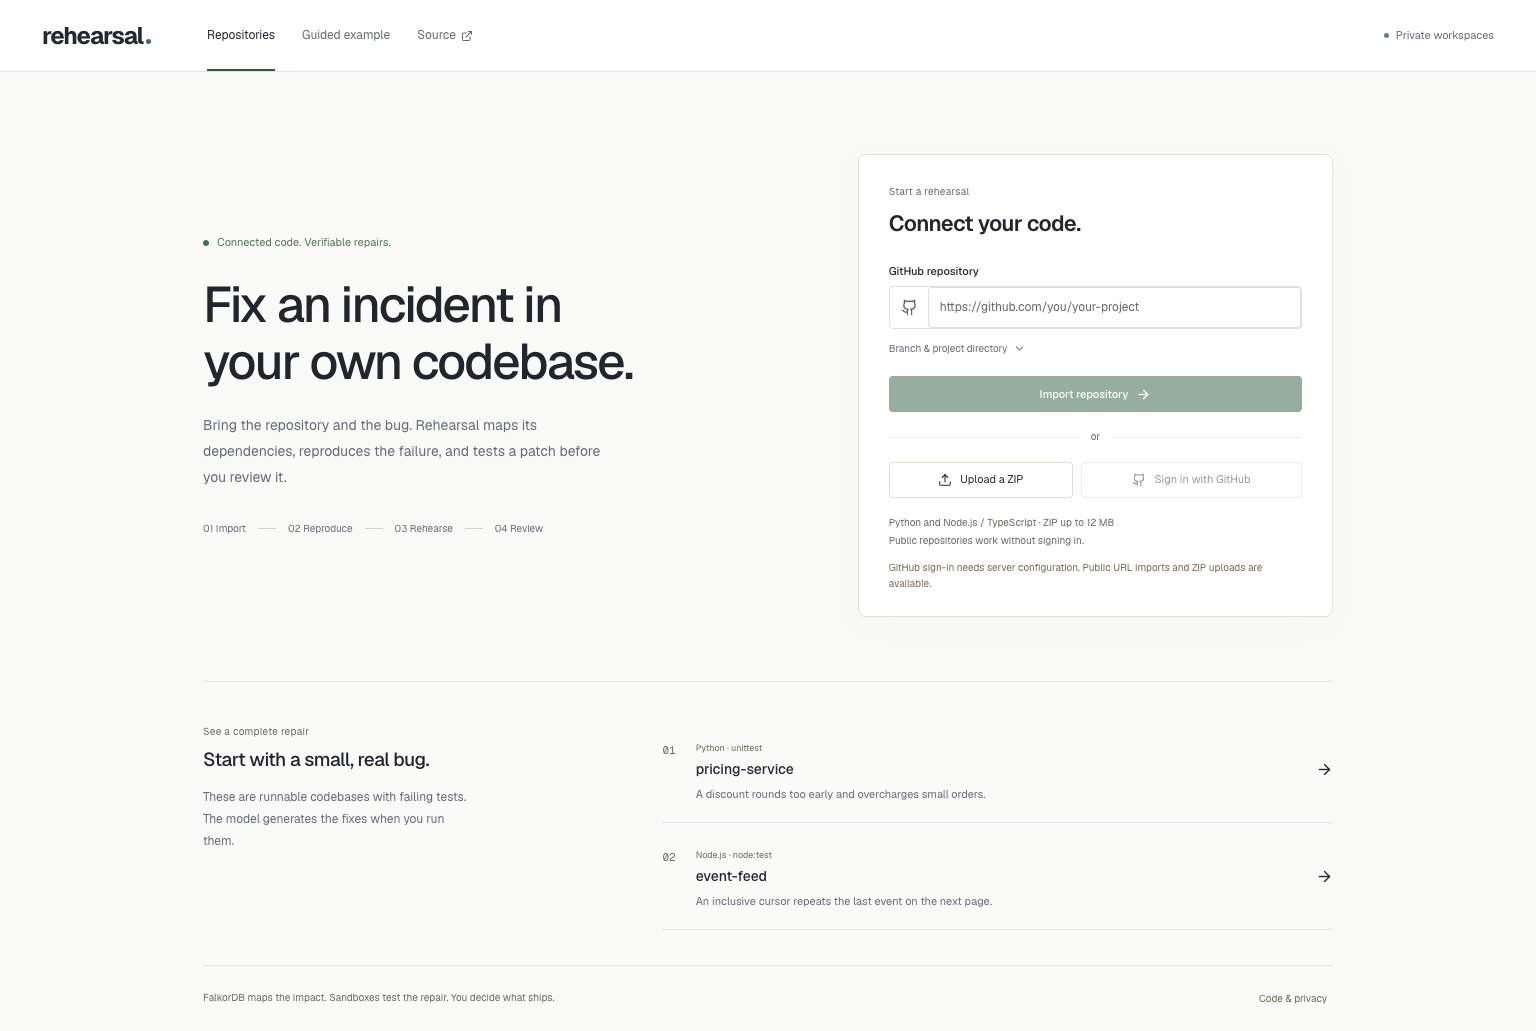
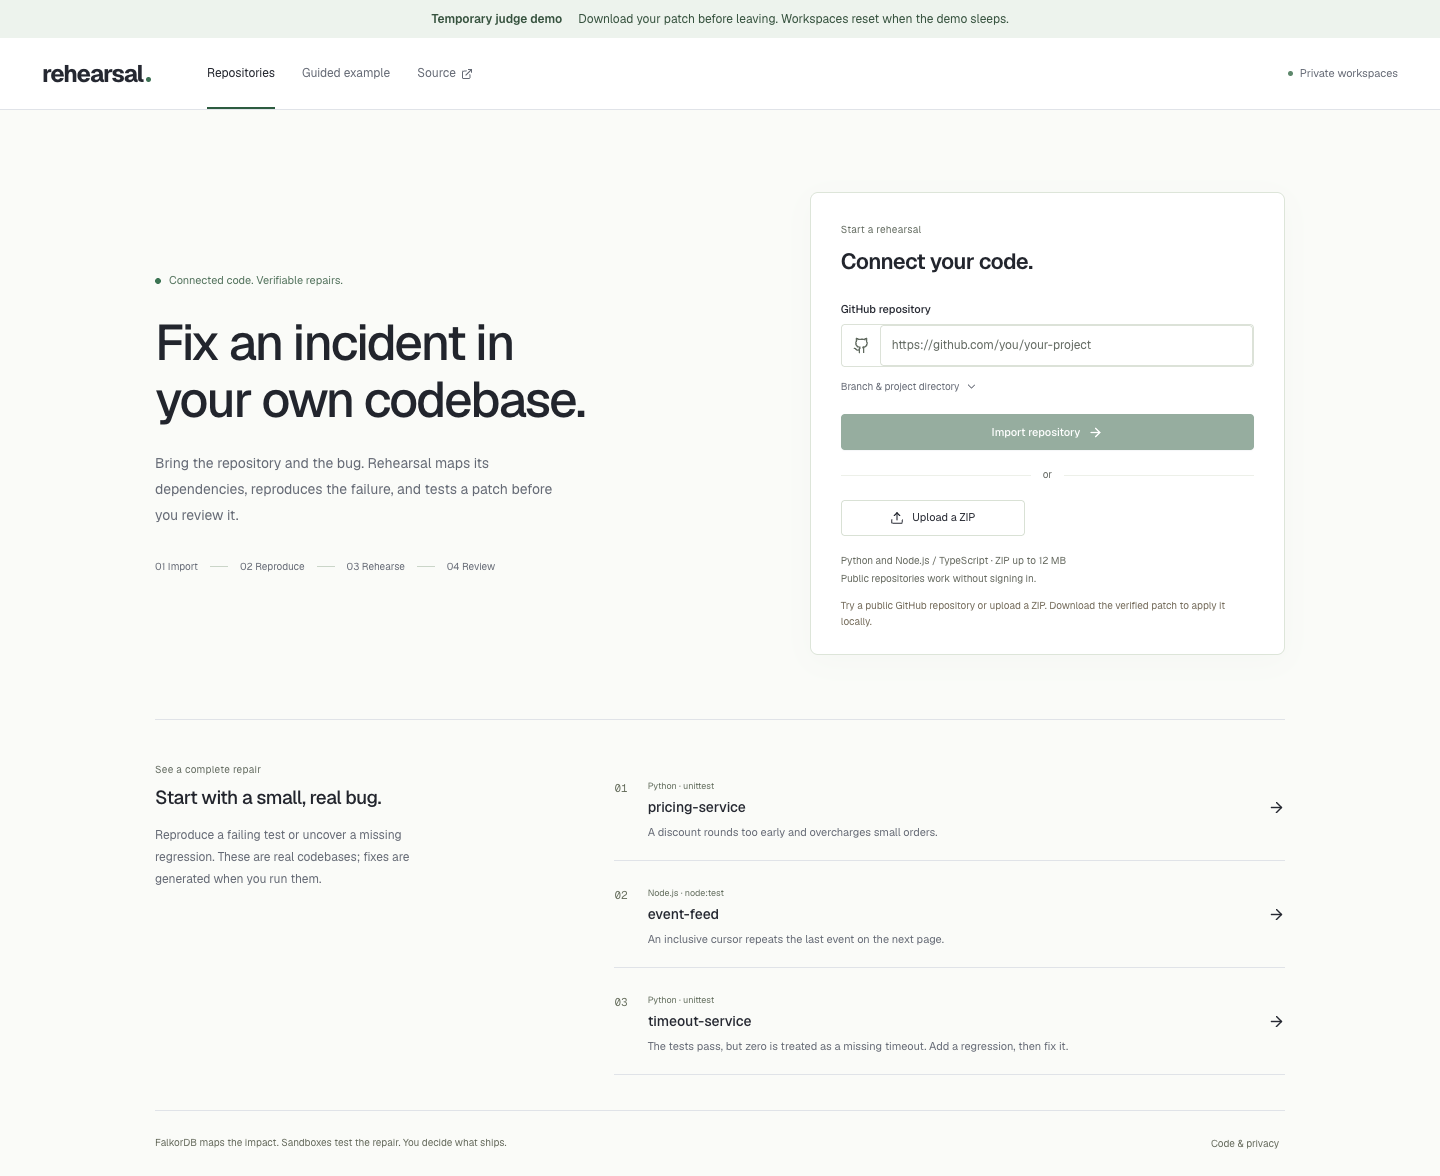
Document live free demo and clarify patch download workflow

diff --git a/web/src/screens/Repositories.tsx b/web/src/screens/Repositories.tsx
@@ -1347,8 +1347,8 @@ export default function Repositories() {
                   stay intact. Passing repairs are repeated in a fresh sandbox.
                 </p>
                 <p>
-                  Source context is sent to the repair model. Nothing is pushed
-                  until you review and approve a draft pull request.
+                  Source context is sent to the repair model. Review the diff
+                  and test evidence before applying a patch.
                 </p>
                 {!session.sandbox.available && (
                   <p className="repo-bad">
@@ -1477,12 +1477,12 @@ function Review({
                   : "Create draft pull request"}
               </button>
             </>
-          ) : (
+          ) : session.github_configured ? (
             <p>
               Import with a GitHub account that has write access to open a draft
               pull request directly.
             </p>
-          )}
+          ) : null}
         </>
       )}
     </div>

diff --git a/docs/verification.md b/docs/verification.md
@@ -25,11 +25,19 @@ Both PRs were inspected before publication. Retrying publication returned the sa
 
 A separate cloud trial installed `is-number@7.0.0` from npm and passed three checks: the installed dependency worked, API credentials were absent from the sandbox environment, and outbound access to `example.com` was blocked during tests. The production Vercel identity function returned 404 anonymously, returned a short-lived project identity only after authentication, and successfully authorized sandbox creation from the external Python adapter. A live check exposed the SDK's requirement for `writable()` on its bounded log sink; the adapter and its contract test were corrected.
 
-The backend suite completed with **126 passing tests** and two dependency deprecation warnings. After the final persistence and validation changes, the expanded repository suite completed with **56 passing tests**. Its seven added cases bring coverage across these runs to 133 distinct backend tests. Additional checks cover malformed manifests, shared import concurrency, malformed URL ports, and graph recovery from on-disk snapshots without a graceful shutdown save. Coverage also includes archive traversal and links, credential filtering, fixed GitHub hosts and redirects, immutable imports, tenant isolation, encrypted sessions, one-use OAuth state and PKCE, persistent quotas, exact edits, protected files, test-count drops, flaky repeats, graph scope, stale commits, and idempotent draft PR creation. The OAuth callback's network exchanges are mocked in this suite.
+The final backend suite completed with **138 passing tests in 309.25 seconds** and two dependency deprecation warnings. Checks cover invitation access, forged/expired cookies, invitation throttling, judge quotas, malformed manifests, shared import concurrency, malformed URL ports, and graph recovery from on-disk snapshots without a graceful shutdown save. Coverage also includes archive traversal and links, credential filtering, fixed GitHub hosts and redirects, immutable imports, tenant isolation, encrypted sessions, one-use OAuth state and PKCE, persistent quotas, exact edits, protected files, test-count drops, flaky repeats, graph scope, stale commits, and idempotent draft PR creation. The OAuth callback's network exchanges are mocked in this suite.
 
 The latest frontend build and identity-function tests passed. Browser checks reported no JavaScript errors, no horizontal overflow at 390 px, and zero selected WCAG A/AA findings from Axe on the repository home and workspace. The Linux amd64 API image started successfully with embedded FalkorDB; checks covered secure cookies, account isolation, persistent SQLite history, real graph health, and rejection of the local Docker runner in public mode. After replacing the container with the final image and restarting it, an authenticated session and imported source remained available; a direct FalkorDB query recovered all three import edges. Source and built browser assets were scanned for configured credentials and common secret patterns without findings. These checks do not establish full accessibility or security conformance.
 
-The final public website/API integration and real browser OAuth callback are still pending. Vercel currently hosts the authenticated sandbox identity function only. Render authentication works, but provisioning is blocked by `need_payment_info`; no paid API service has been created. The local and cloud integration checks above are not presented as a completed public deployment.
+## Temporary judge deployment — October 18
+
+The website and authenticated sandbox identity function are deployed on Vercel, with the API on Render's **Free** plan: one instance, no disk, and no paid hosting service. The actual service configuration was checked through Render's API. API access requires a separately shared, expiring judge invitation. Public GitHub URLs, ZIP uploads, and three included examples work without GitHub sign-in.
+
+Browser verification through the deployed Vercel website imported `aman-a-shah/rehearsal-python-example` at `3c6a4734155c2a05c7b3c27551269d32884c27ef`. Run `2a42e5b077d94f90a061b4494dc4fe5f` reproduced one failure in six tests, generated repairs through Backboard, and selected a patch that passed six tests twice in separate Vercel microVMs. The browser displayed twelve graph queries and downloaded the actual patch. A second invited guest received 404 for the first guest's project and run. There were no browser errors. The README screenshot is from this deployed run.
+
+All three built-in examples imported with real graph edges: pricing (six files, three import edges), pagination (six files, three edges), and timeout (four files, one edge). A Node ZIP uploaded through the deployed API also produced six files and three edges. The invitation response set Secure, HttpOnly, SameSite=Lax cookies. Anonymous repository access returned 403 and anonymous sandbox-identity access returned 404. Local browser checks of the same invitation UI found zero selected Axe WCAG A/AA violations and no mobile overflow at 390 px.
+
+The free host sleeps after inactivity and clears workspace data and usage counters on restart. This is a temporary demonstration, not persistent hosting. Model/sandbox requests use the connected accounts' existing allowances. GitHub OAuth and a real browser callback are not configured for this preview; guests download patches. The earlier live draft PR checks above used the owner's explicitly authorized local test identity. Deployment evidence and screenshots are saved locally under `artifacts/judge-demo/`; the invitation is private and excluded from Git.
 
 ## October 18 demo recording and container
 
@@ -41,7 +49,7 @@ The Docker image built successfully for Linux amd64 and ran under Docker Desktop
 
 The production-launcher and existing security suites passed together: **27 tests in 36.28 seconds**. The launcher rejects missing/insecure origins, disabled public mode, invalid ports, and wildcard proxy trust, including a wildcard mixed into an address list. The container entrypoint also rejected a normalized path escaping `/data/rehearsal`. A scoped scan found no configured credential values in tracked or unignored project files. The existing Starlette test-client deprecation warning remained.
 
-These container checks were local. No internet-facing deployment, public video upload, or event-form submission has been completed. See the [deployment guide](deployment.md), [recording workflow](demo.md#repeatable-browser-capture), and [submission draft](submission.md).
+These earlier container checks were local; the subsequent temporary judge deployment is described above. The recorded video has not been publicly uploaded, and the event form has not been submitted. See the [deployment guide](deployment.md), [recording workflow](demo.md#repeatable-browser-capture), and [submission draft](submission.md).
 
 ## October 18 submission checks
 

diff --git a/docs/repository-demo.md b/docs/repository-demo.md
@@ -2,17 +2,17 @@
 
 For the temporary judge link, open the invitation first. Start with **Harbor / pricing-service**, then show a public GitHub import or ZIP upload. **Atlas / event-feed** exercises Node.js; **Relay / timeout-service** starts with passing tests and requires a generated failing regression. Download the patch before leaving because the free host clears workspaces when it sleeps. GitHub sign-in is optional for this preview.
 
-Use the Python pricing repository for the main demonstration. Its bug is visible in one assertion, while its graph also shows the checkout module and dependent tests. Keep a second tab open on the repository and a third on the eventual draft PR.
+Use the Python pricing repository for the main demonstration. Its bug is visible in one assertion, while its graph also shows the checkout module and dependent tests. Keep a second tab open on the repository.
 
 ## Before recording
 
-Sign in to the deployed app with GitHub. Import `https://github.com/aman-a-shah/rehearsal-python-example` on `main`. Confirm the sandbox and provider are connected. The test command is `python -m unittest discover -s tests -v`; no setup command is needed.
+Open the private invitation and import `https://github.com/aman-a-shah/rehearsal-python-example` on `main`. No GitHub sign-in is needed. Confirm the sandbox and provider are connected. The test command is `python -m unittest discover -s tests -v`; no setup command is needed. Use an OAuth-configured deployment only if recording draft PR publication as well.
 
 Use this incident description:
 
 > Customers are overcharged for small orders. discounted_total should round the final discounted subtotal once to the nearest cent using ROUND_HALF_UP. Three items at $0.05 with a 10% discount should cost $0.14, but the service returns $0.15. Preserve validation of negative quantities and invalid discounts.
 
-Perform one rehearsal before recording to verify account readiness and familiarize yourself with the output. Model wording and candidate count vary. Recording an already completed run is fine if you say that you are showing its saved execution evidence. Do not disguise prerecorded output as a new live run. Usage reservations remain consumed after deleting a repository or restarting the server.
+Perform one rehearsal before recording to verify account readiness and familiarize yourself with the output. Model wording and candidate count vary. Recording an already completed run is fine if you say that you are showing its saved execution evidence. Do not disguise prerecorded output as a new live run. Deleting a repository does not refund usage. The free host resets all workspace state when it sleeps; record and download the patch before leaving.
 
 ## A concise screen-and-voice sequence
 
@@ -24,7 +24,9 @@ Perform one rehearsal before recording to verify account readiness and familiari
 | Original test evidence | Six tests, one failing assertion, `$0.15` versus `$0.14` | “The first run reproduces the bug. This is output from executing the repository, not a predicted score.” |
 | Generated patch | Diff moves rounding to the final subtotal | “The model proposes a source change. Existing tests and build configuration are protected. Each candidate runs from a fresh snapshot.” |
 | Passing tests and repeat | Six passing tests, then the separate verification run | “This patch passes all six checks, and Rehearsal repeats them in another fresh sandbox. Passing tests are evidence for these checks; I still review the change.” |
-| Review and draft PR | Review checkbox, create draft PR, GitHub diff and base commit | “I approve the reviewed patch. The app checks that the original branch has not moved and opens a draft pull request. It does not merge into production.” |
+| Review and download | Read the diff, download the patch, show the local application command | “I review the patch and download it to apply to the tested commit. The original repository is unchanged.” |
+
+On a deployment with GitHub OAuth configured, optionally show the review checkbox, draft PR, and its base commit. Explain that publication rechecks the branch and never merges automatically. The free judge preview uses patch downloads.
 
 Let the actual execution determine timing. If a run takes longer than the video allows, cut the waiting period and label the cut. Keep the failure, graph query, diff, and both real test results visible long enough to read.
 
@@ -32,6 +34,6 @@ Let the actual execution determine timing. If a run takes longer than the video 
 
 The Node repository has a duplicate pagination boundary. `pageAfter` uses `>=` where the cursor must be exclusive. Its five `node:test` cases demonstrate a different language and test runner using the same workflow.
 
-For a bug missing from existing tests, use the timeout ZIP case in `scripts/verify-repository-live.py`: four tests initially pass; a generated fifth test exposes that integer zero is treated as a missing timeout; the repair must pass all five tests twice. This demonstrates why the system requires a failing regression before accepting a fix.
+For a bug missing from existing tests, choose **Relay / timeout-service**: four tests initially pass; a new regression must expose that integer zero is treated as a missing timeout; the repair must pass the expanded suite twice. The generated test count can vary. This demonstrates why the system requires a failing regression before accepting a fix.
 
 Supported repositories are bounded Python and Node.js/TypeScript projects with self-contained tests. Explain those limits directly. The project investigates code and produces reviewed patches; it does not connect to arbitrary production infrastructure or guarantee incident resolution.

diff --git a/docs/repository-security.md b/docs/repository-security.md
@@ -2,6 +2,8 @@
 
 These controls apply to `/api/code`. The separate fictional company workspace retains its [operator controls](security.md).
 
+The optional judge preview adds an expiring invitation to both workflows. An invitation in the URL fragment is exchanged for a signed Secure, HttpOnly cookie, then removed from the address bar. Anonymous requests cannot import, run, or read repository data. The shared invitation does not grant access to another visitor's workspace. Health/status remain public, invitation attempts are limited, and responses discourage search indexing.
+
 - **Accounts:** random session tokens are hashed in SQLite. Cookies are HttpOnly and SameSite=Lax, and Secure in public mode. OAuth state expires in ten minutes and is bound to the originating browser. PKCE protects the code exchange. GitHub tokens and OAuth verifier records are encrypted with a server-held Fernet key.
 - **Tenant isolation:** project, file, run, cancellation, download, deletion, and publication endpoints check the authenticated workspace. Unknown and foreign records return 404. Each snapshot has its own FalkorDB graph. GitHub credentials never enter another workspace, a model, or a sandbox.
 - **Import:** repository URLs are restricted to GitHub. API requests use fixed endpoints; bounded archive redirects allow only GitHub's API and codeload hosts. Authorization headers are removed on codeload redirects. Branches resolve to immutable SHAs. Archive paths, links, duplicate files, expanded size, and file count are checked. Archives are read into validated data, never extracted on the host.
@@ -26,7 +28,9 @@ These controls apply to `/api/code`. The separate fictional company workspace re
 | ZIP bodies | 12 MiB compressed; 24 MiB expanded |
 | Queued/running investigations | 4 globally; 1/account; one executor |
 
-SQLite reserves usage before paid calls. Failures consume reservations. Guest-cookie replacement does not reset peer/global limits; deleting a project does not erase quotas. Limits survive restarts. These are request counts, not a dollar ceiling. Use independent account billing controls. The guided demo has a separate provider quota, so the account budget must cover both workflows.
+SQLite reserves usage before paid calls. Failures consume reservations. Guest-cookie replacement does not reset peer/global limits; deleting a project does not erase quotas. Limits survive restarts when the API uses persistent storage. These are request counts, not a dollar ceiling. Use independent account billing controls. The guided demo has a separate provider quota, so the account budget must cover both workflows.
+
+The free judge deployment allows up to four runs per guest and twelve per ingress peer, still bounded by the shared four/hour, twelve/day, and model/sandbox limits above. Its ephemeral filesystem loses usage counters and workspace records on host sleep/restart. The invitation and its fixed expiry remain configured on the host. This restricted preview is not a deployment with durable billing controls or durable user data.
 
 Peer limits use verified socket addresses. Without explicit proxy trust, visitors behind an ingress can share one peer bucket. Configure the host's documented proxy networks after verifying ingress behavior. Do not enable wildcard proxy trust.
 

diff --git a/docs/repository-deployment.md b/docs/repository-deployment.md
@@ -1,6 +1,6 @@
 # Repository deployment
 
-The website and API are independently deployable. The API needs persistent storage and a long-lived worker because a rehearsal can outlast an HTTP request. Closing the browser does not cancel a run.
+The website and API are independently deployable. The API uses a long-lived worker because a rehearsal can outlast an HTTP request. Persistent storage preserves accounts and investigations across restarts; the temporary judge preview below uses disposable storage.
 
 ## Free temporary judge preview
 
@@ -10,7 +10,7 @@ Set `REHEARSAL_DEMO_INVITE` to a random 48+ character value, `REHEARSAL_DEMO_EXP
 
 Public GitHub URLs, ZIP uploads, and three built-in examples work without GitHub OAuth registration. Guests can download verified patches. The demo permits four runs per guest, with shared hourly, daily, model-call, and sandbox limits. GitHub sign-in and draft PR publication remain optional additional configuration.
 
-Render's free service sleeps after 15 idle minutes, takes roughly a minute to wake, and discards local source, sessions, graph data, run history, and quota counters on sleep/restart. The invitation cookie remains valid, but visitors start a new workspace. The page retries during startup and tells visitors to download patches before leaving. Keep the invitation limited to judges; this configuration is temporary and does not provide durable storage or durable cross-restart usage accounting. See [Render's documented limits](https://render.com/docs/free).
+Render's free service sleeps after 15 idle minutes, takes roughly a minute to wake, and discards local source, sessions, graph data, run history, and quota counters on sleep/restart. The invitation cookie remains valid, but visitors start a new workspace. Keep the page open until the run finishes and download patches before leaving. The page retries during startup. Keep the invitation limited to judges; this configuration is temporary and does not provide durable storage or durable cross-restart usage accounting. See [Render's documented limits](https://render.com/docs/free).
 
 To end the preview, suspend/delete the free service or let the invitation expire. Do not upgrade it or attach a disk for the temporary preview.
 
